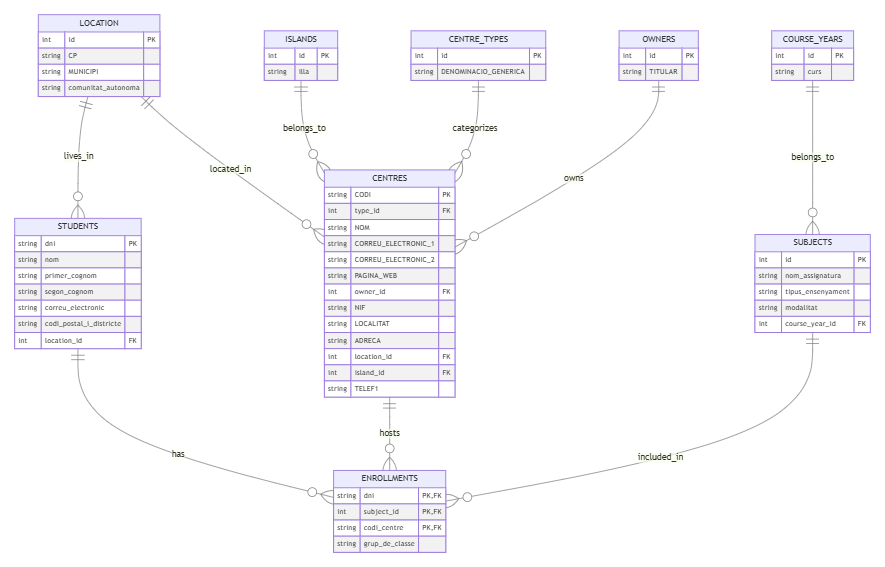
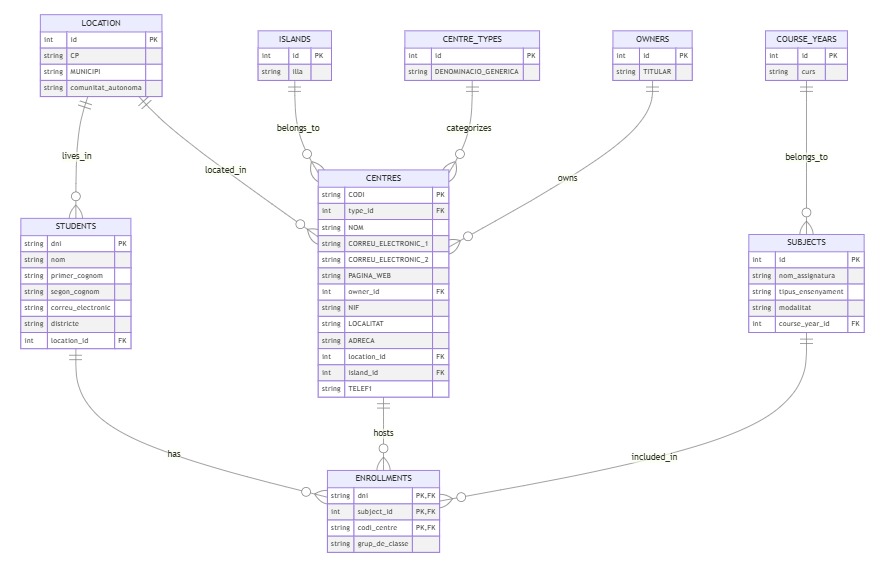
finalized db normalization

diff --git a/docs/design/db_design_analysis.md b/docs/design/db_design_analysis.md
@@ -198,7 +198,7 @@ Primary Key: dni
 - primer_cognom
 - segon_cognom
 - correu_electronic
-- codi_postal_i_districte (split during data insertion to match LOCATION and leave here district)
+- districte (split during data insertion to match LOCATION and leave here district)
 - location_id (FK to LOCATION)
 ```
 
@@ -210,7 +210,7 @@ Primary Key: (id)
 - tipus_ensenyament
 - modalitat
 - curs_year_id (FK to COURSE_YEARS)
-Unique (nom_assignatura, tipus_ensenyament, modalitat, curs)
+Unique (nom_assignatura, tipus_ensenyament, modalitat, curs_year_id)
 ```
 
 5. **ENROLLMENTS**
@@ -305,7 +305,7 @@ erDiagram
         string primer_cognom
         string segon_cognom
         string correu_electronic
-        string codi_postal_i_districte
+        string districte
         int location_id FK
     }
 
@@ -336,3 +336,26 @@ erDiagram
 ```
 
 ![er-diagram](final_er_diagram.png)
+
+## Validation of Normalization:
+
+1. **1NF Compliance:**
+   - All attributes are atomic, and there are no repeating groups. ✅
+
+2. **2NF Compliance:**
+   - All non-key attributes in each table depend entirely on the primary key. ✅
+
+3. **3NF Compliance:**
+   - Transitive dependencies are resolved. ✅
+
+4. **Composite Primary Keys:**
+   - The `ENROLLMENTS` table uses a composite primary key (`dni`, `subject_id`, `codi_centre`) to uniquely identify enrollments. ✅
+
+5. **Foreign Key Relationships:**
+   - Appropriate relationships are established between normalized tables, such as `location_id` linking `CENTRES` and `STUDENTS` to `LOCATION`. ✅
+
+6. **Handling Multivalued Attributes:**
+   - Attributes like `DENOMINACIÓ GENÈRICA` and `TITULAR` are extracted into separate tables (`CENTRE_TYPES` and `OWNERS`). ✅
+
+7. **Redundancy and Consistency:**
+   - Separation of `ISLANDS` and `LOCATION` reduces redundancy and improves data integrity. ✅
